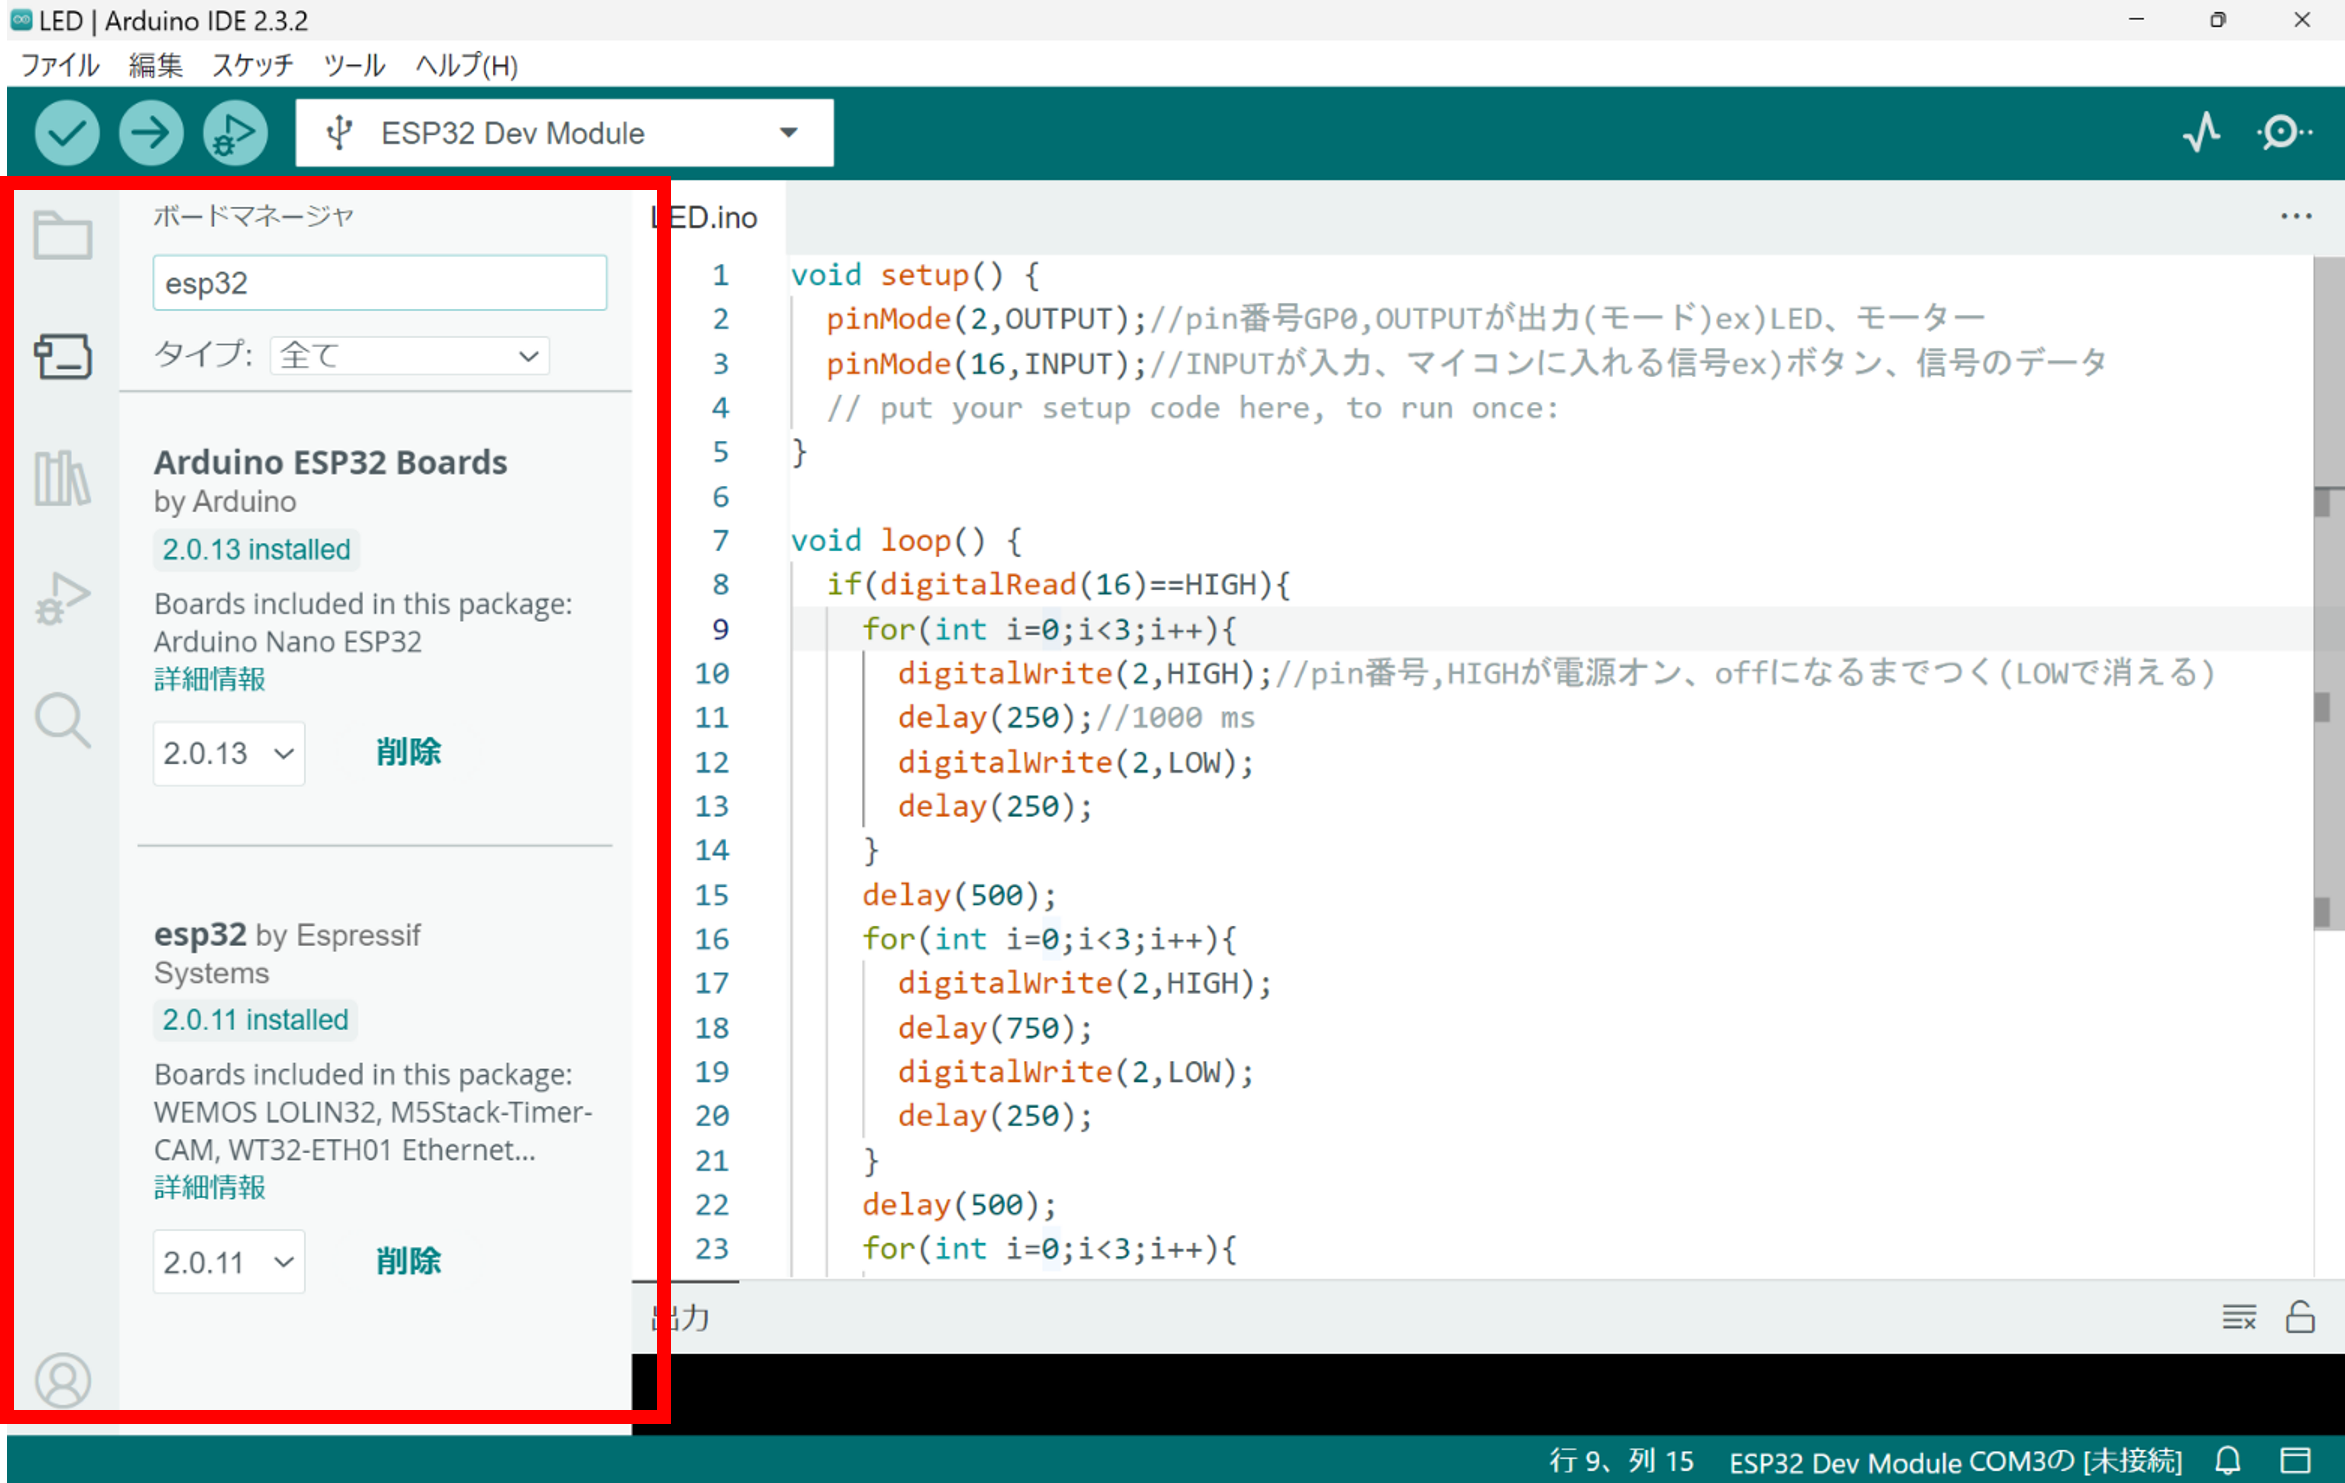
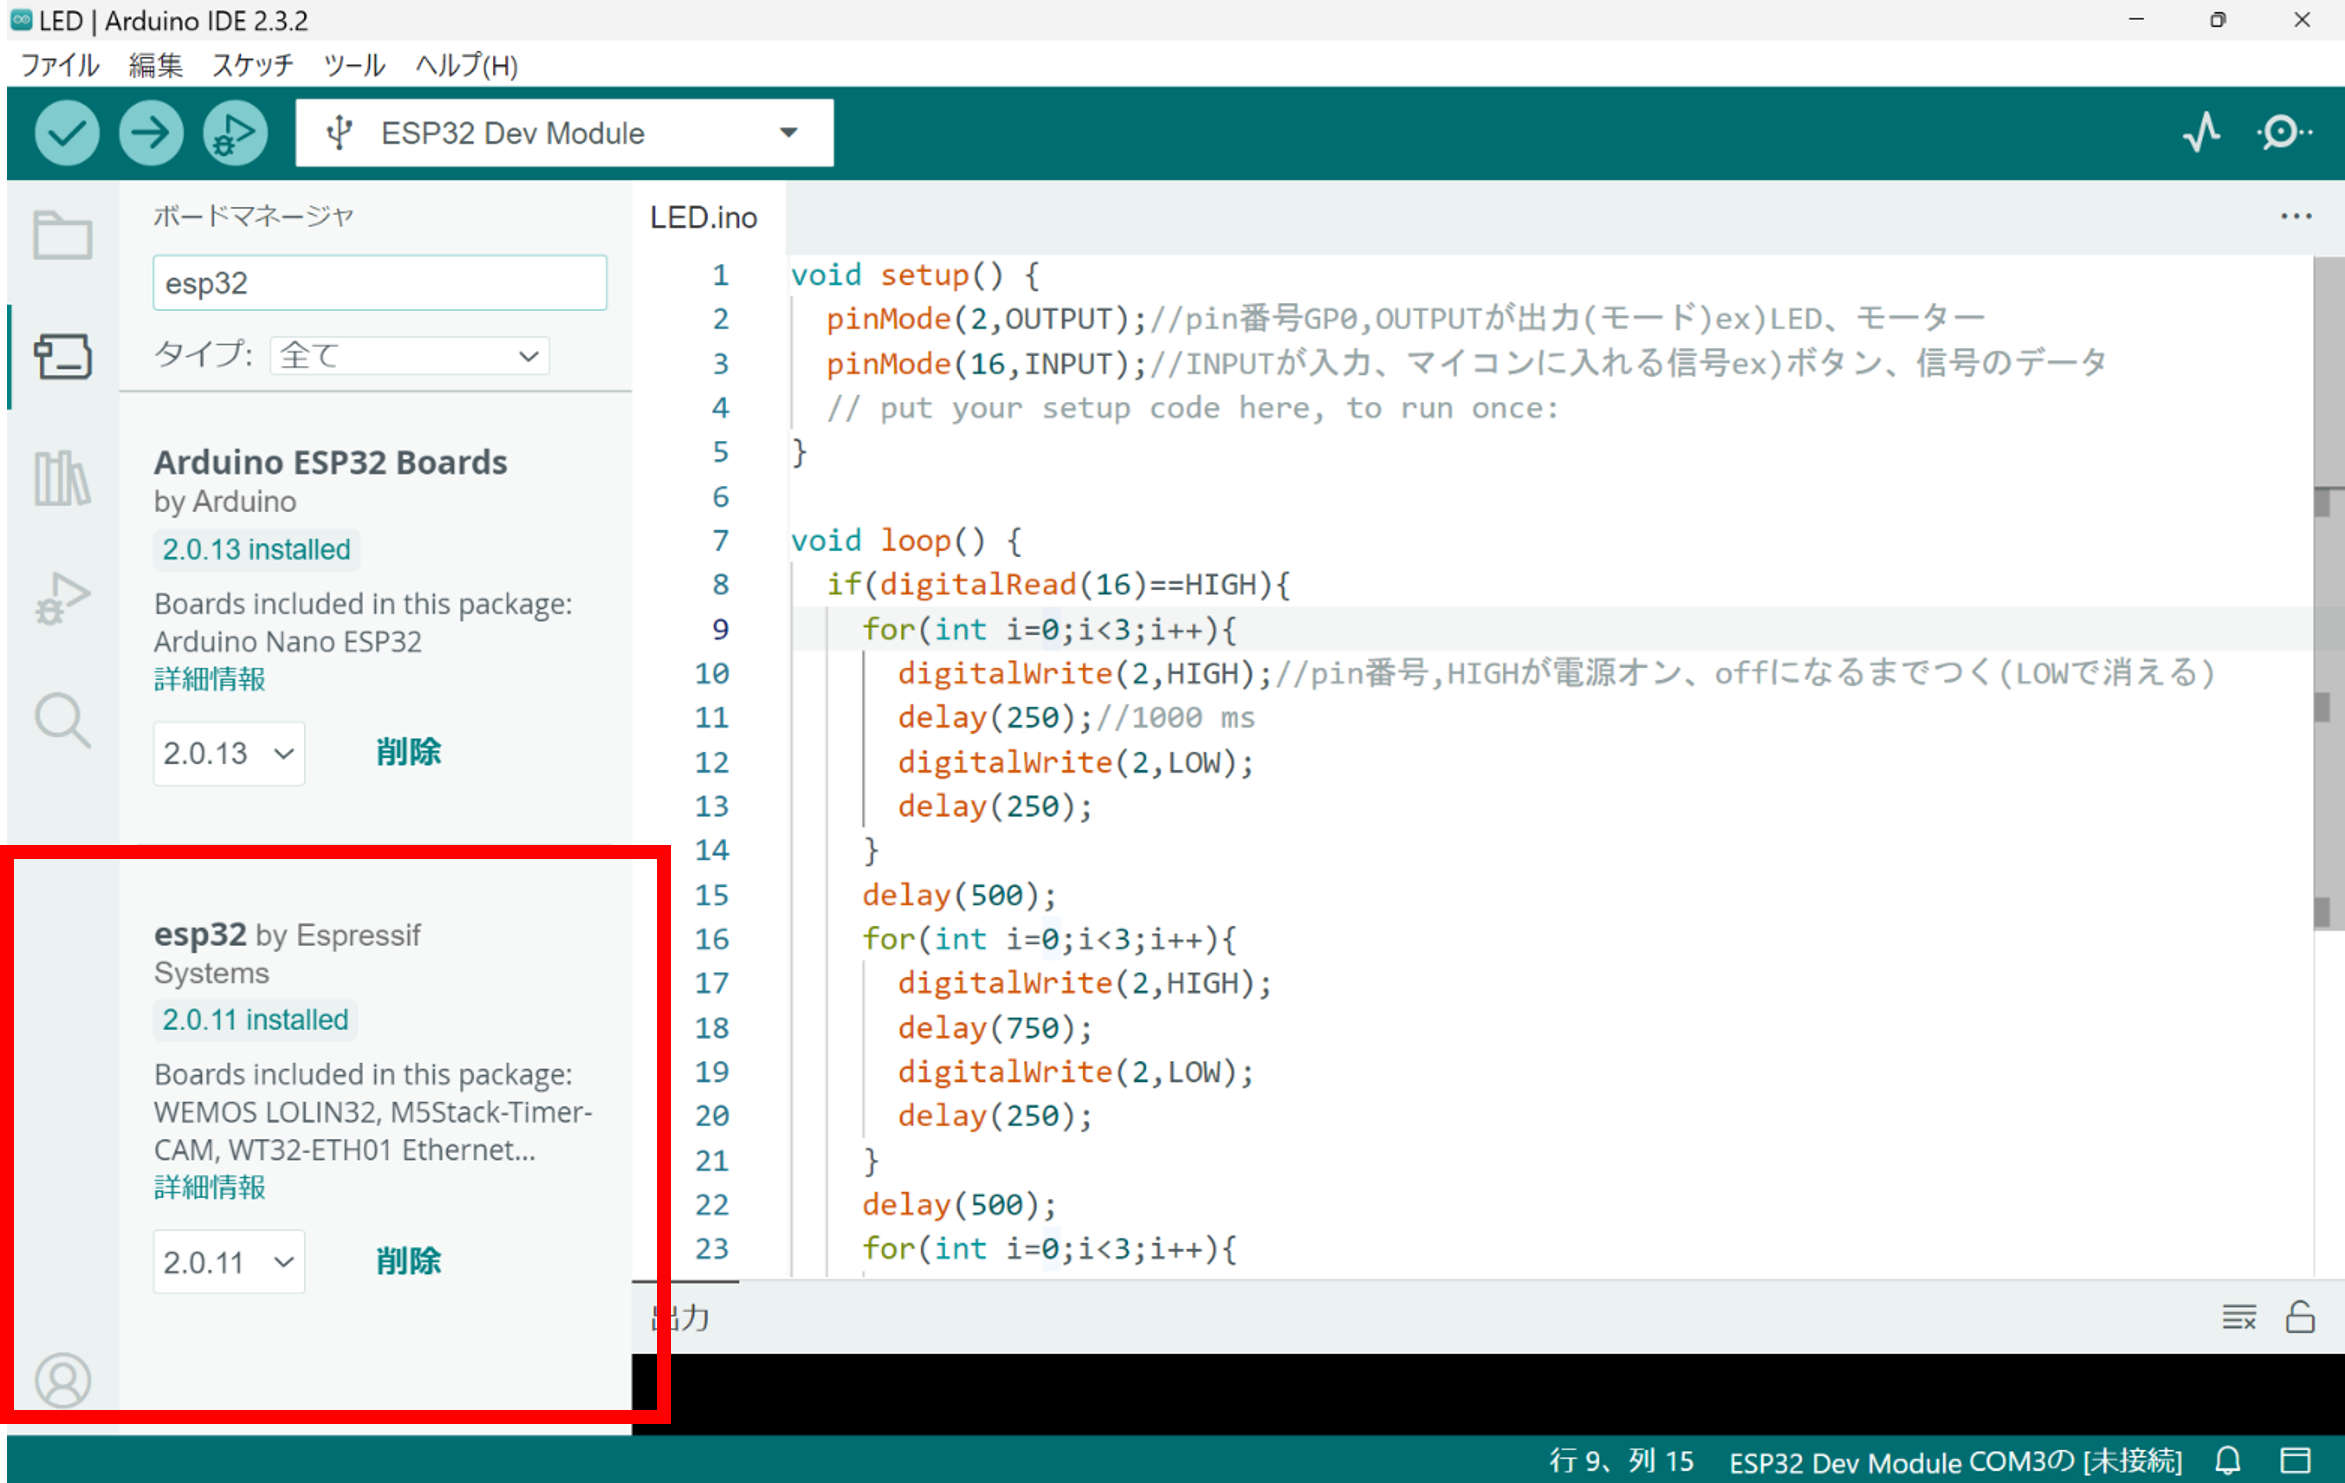
lesson0を修正

Changed region(s): [[0.0, 0.0931, 0.3113, 0.5893]]

diff --git a/docs/ESP32/lesson0-environment.md b/docs/ESP32/lesson0-environment.md
@@ -31,14 +31,11 @@ ESP32を使用することを目標としているが、ほかのマイコンと
 - 使用するためにはボードを選択する必要がある
 - ボードはボードマネージャーなどから自分でインストールする
 - 自操班が使用しているのはESP32
-- 講座ではraspberry pi picoも使用する
+
 ### ボードのインストール
 1. ボードマネージャーを開いて「esp32」と入力  
-二つ出てくるので両方インストールする
+出てくるので「esp32 by Espressif Systems」をインストール
 ![](res/lesson0-environment/boardmaneger.png)
-1. 追加で「raspberry」と入力  
-「Arduino Mbed OS RP2040 Boards」をインストール
-![](res/lesson0-environment/boardmaneger2.png)
 
 !!! Note
     **参考 他のインストール方法**  

diff --git a/docs/index.md b/docs/index.md
@@ -16,7 +16,6 @@
 - Lチカ
 - シリアル通信
 - センサー
-- サーボ
 
 ### STM32を使う
 - 環境構築およびLチカ
